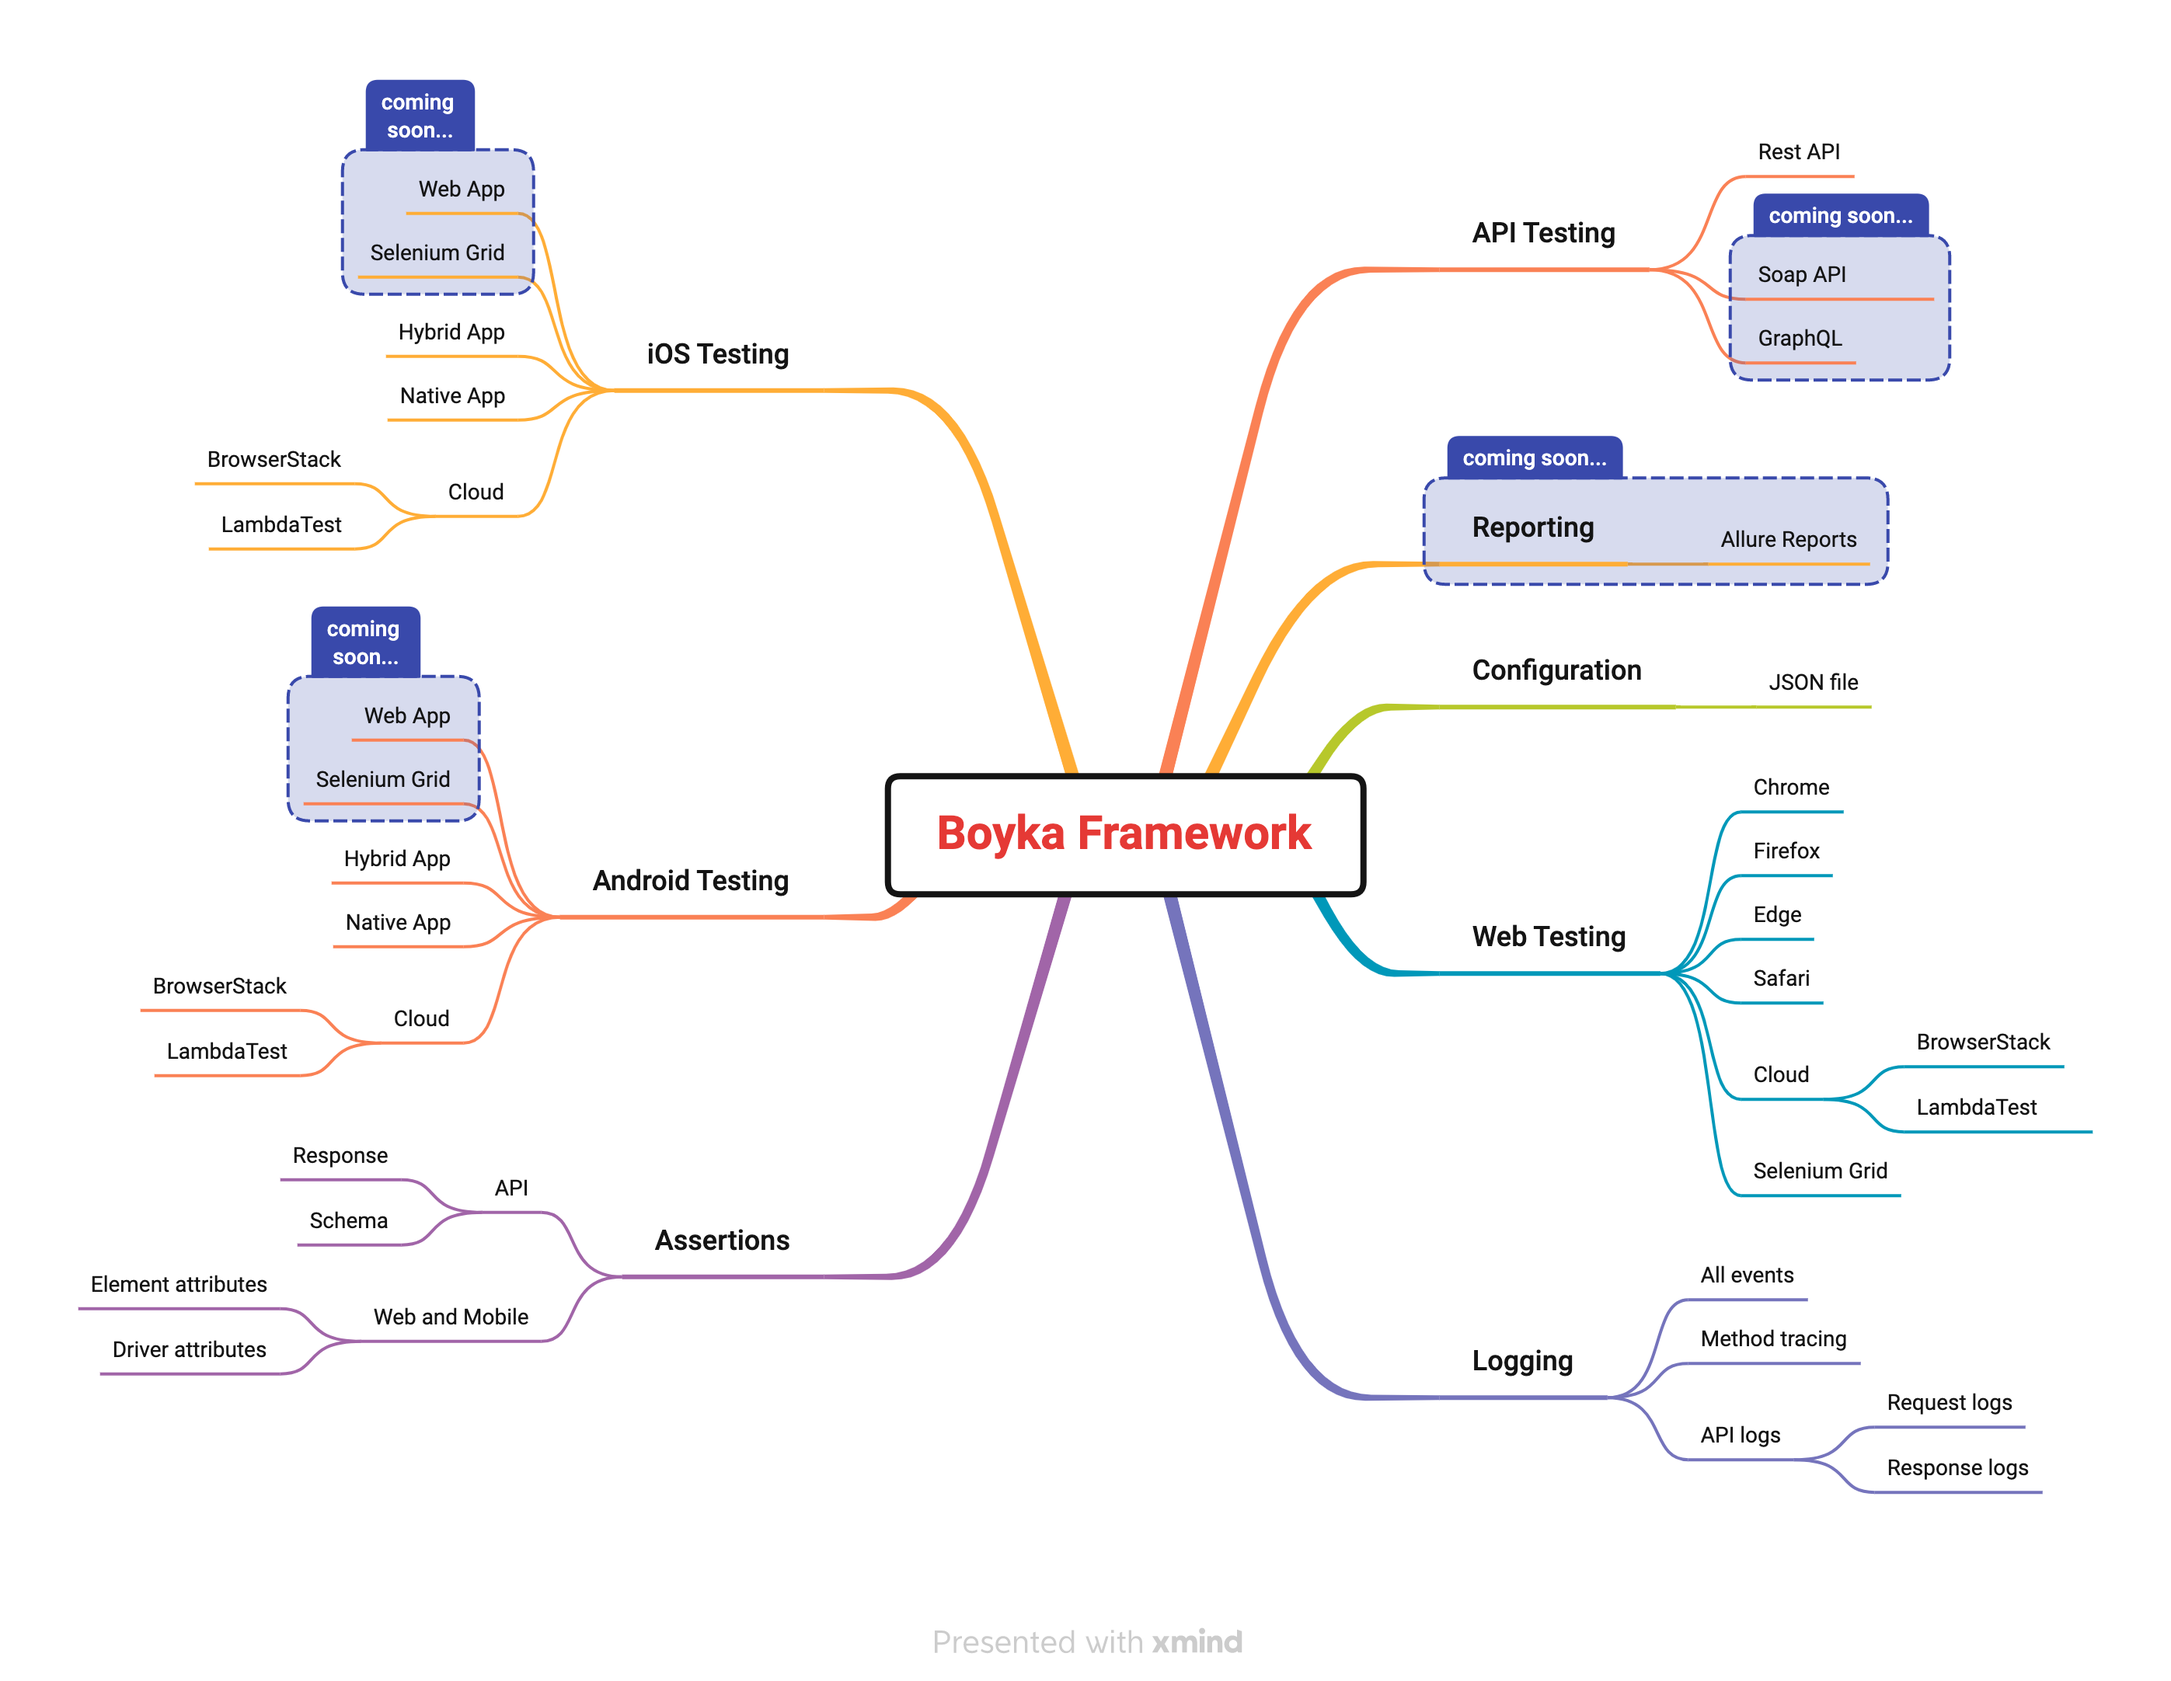
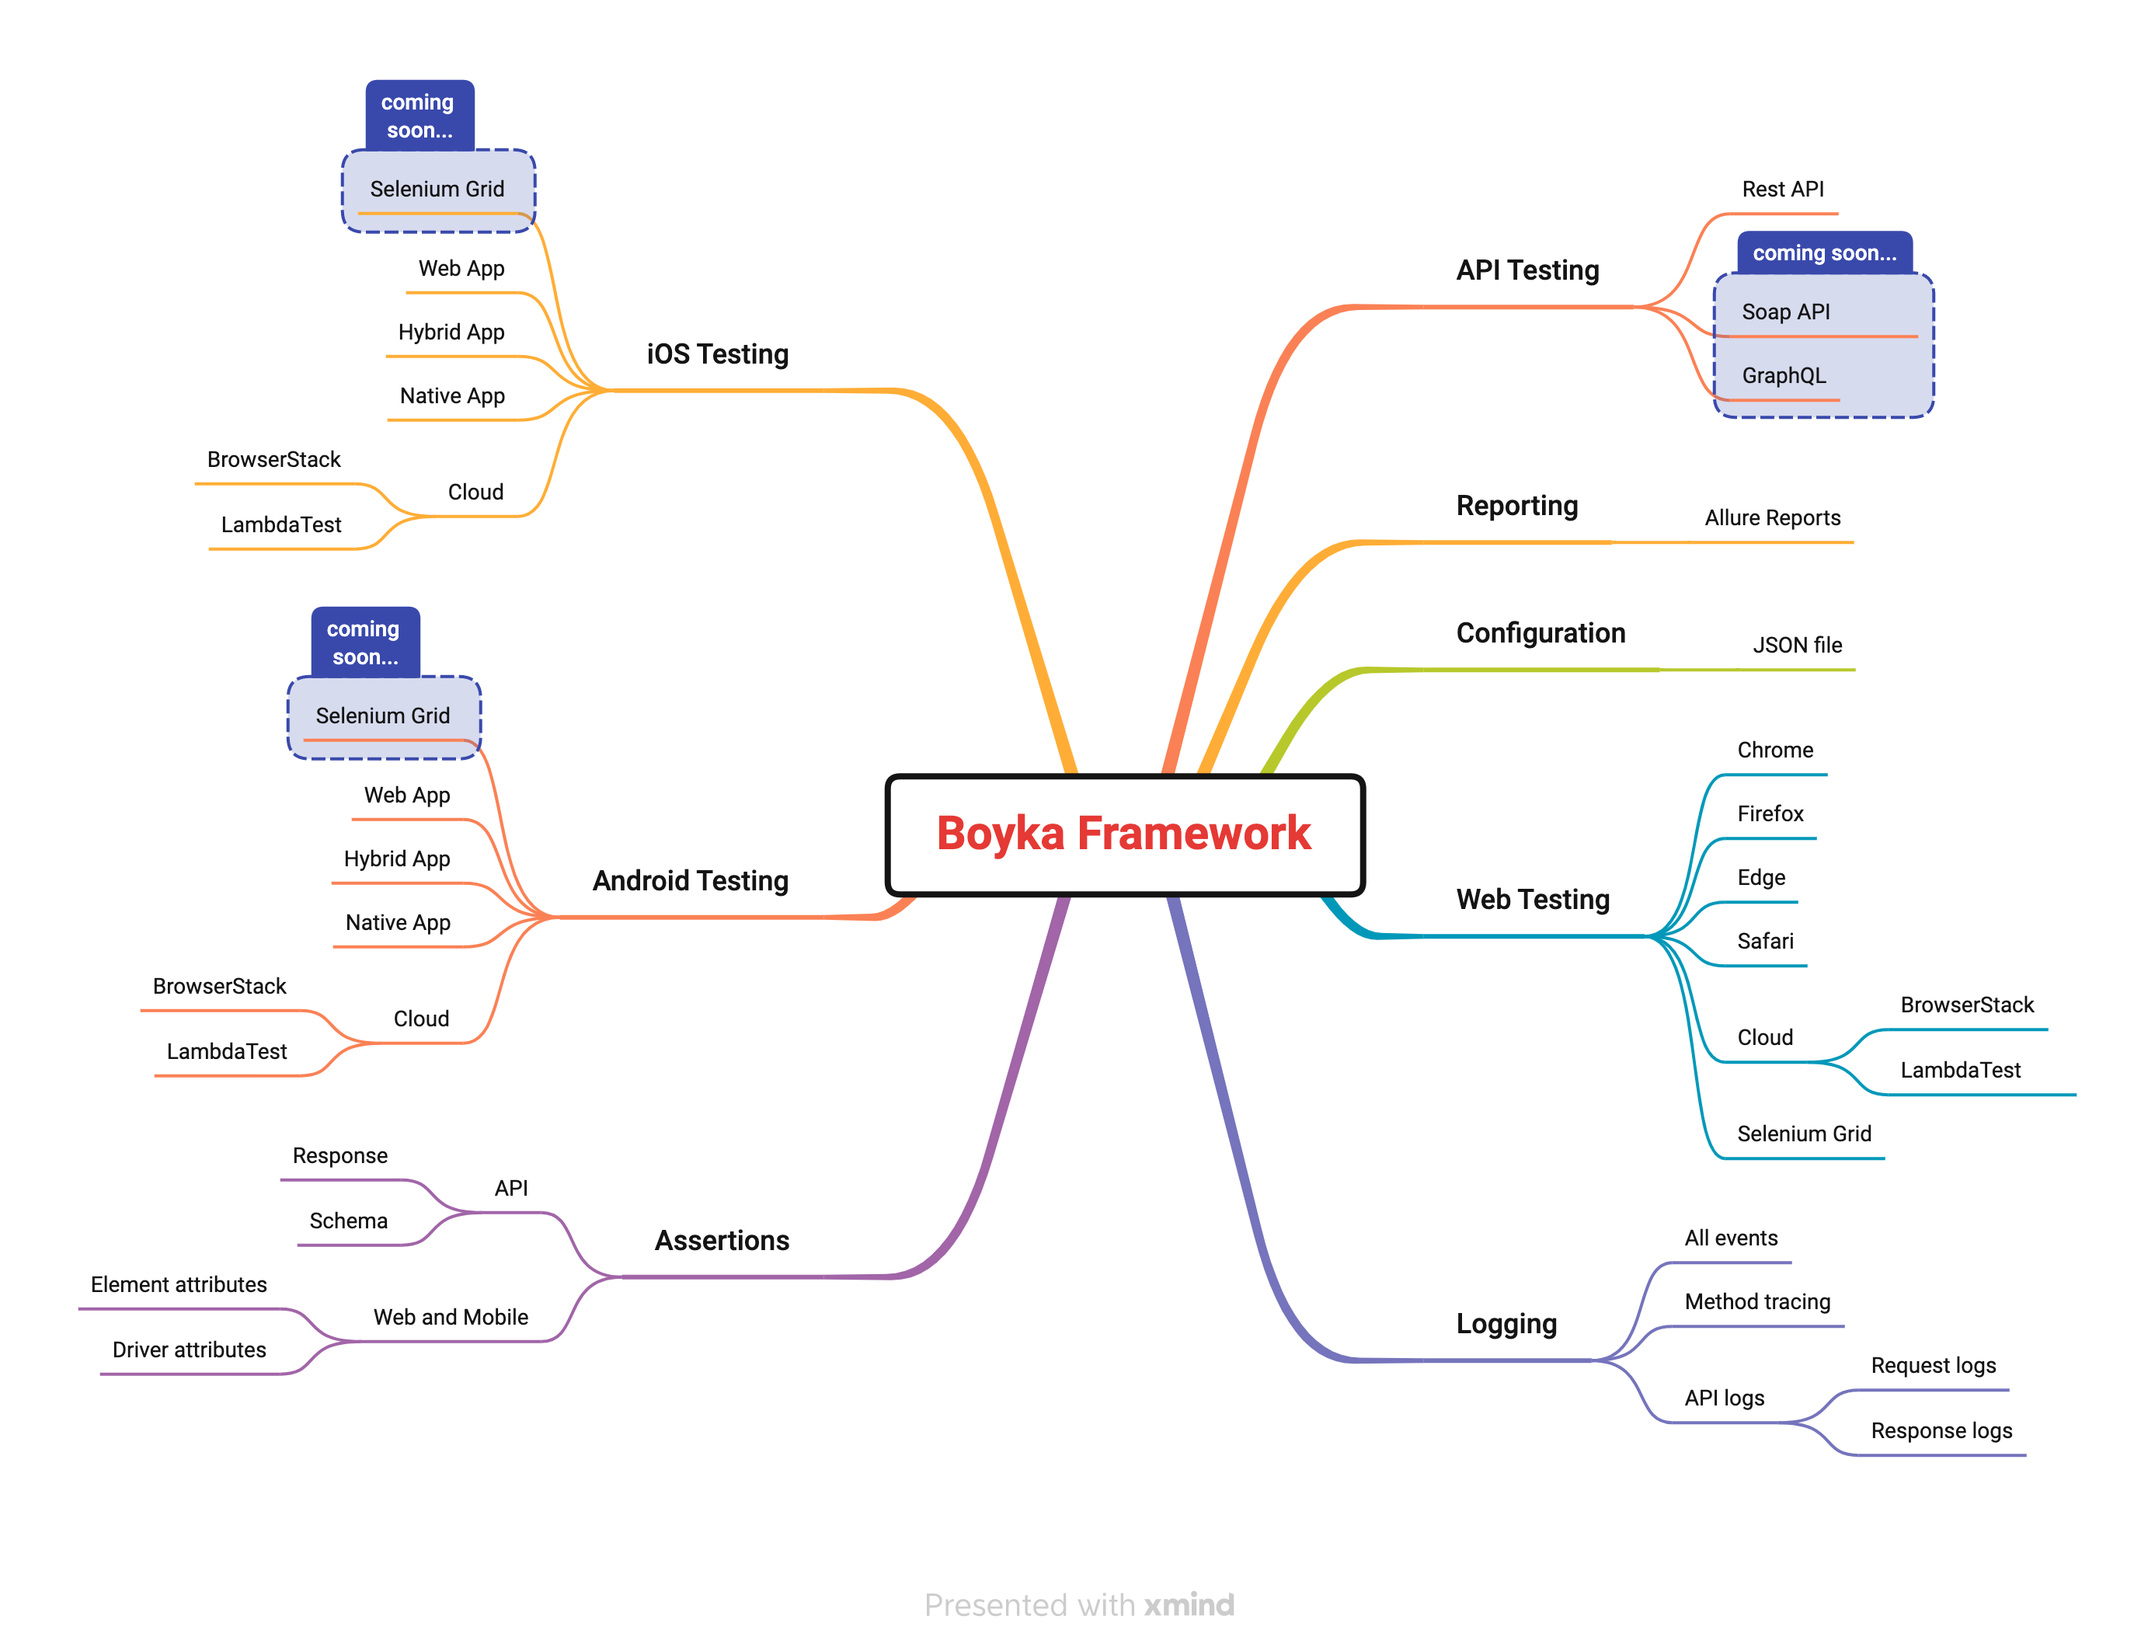
feat(java): :sparkles: adding web app support for mobile

diff --git a/core-java/src/main/java/com/github/wasiqb/boyka/manager/AndroidManager.java b/core-java/src/main/java/com/github/wasiqb/boyka/manager/AndroidManager.java
@@ -1,5 +1,7 @@
 package com.github.wasiqb.boyka.manager;
 
+import static com.github.wasiqb.boyka.actions.drivers.NavigateActions.navigate;
+import static com.github.wasiqb.boyka.enums.ApplicationType.WEB;
 import static com.github.wasiqb.boyka.enums.AutomationType.UI_AUTOMATOR;
 import static com.github.wasiqb.boyka.enums.DeviceType.CLOUD;
 import static com.github.wasiqb.boyka.enums.DeviceType.VIRTUAL;
@@ -8,6 +10,7 @@ import static com.github.wasiqb.boyka.manager.ParallelSession.setDriver;
 import static com.github.wasiqb.boyka.utils.Validator.setOptionIfPresent;
 import static io.appium.java_client.Setting.IGNORE_UNIMPORTANT_VIEWS;
 import static java.time.Duration.ofSeconds;
+import static org.apache.commons.lang3.StringUtils.isNotEmpty;
 
 import com.github.wasiqb.boyka.config.ui.mobile.MobileSetting;
 import com.github.wasiqb.boyka.config.ui.mobile.device.ApplicationSetting;
@@ -38,12 +41,24 @@ class AndroidManager implements IDriverManager {
         setupAndroidSettings ();
     }
 
+    private void navigateToBaseUrl () {
+        if (this.settings.getApplication ()
+            .getType () == WEB && isNotEmpty (this.settings.getBaseUrl ())) {
+            navigate ().to (this.settings.getBaseUrl ());
+        }
+    }
+
     private void setAndroidApplicationOptions (final UiAutomator2Options options,
         final ApplicationSetting application) {
-        setupApplicationOptions (application, options);
-        options.setAppWaitActivity (application.getWaitActivity ());
-        options.setAppWaitDuration (ofSeconds (application.getWaitTimeout ()));
-        options.setAndroidInstallTimeout (ofSeconds (application.getInstallTimeout ()));
+        if (application.getType () == WEB) {
+            options.withBrowserName (this.settings.getBrowser ()
+                .name ());
+        } else {
+            setupApplicationOptions (application, options);
+            options.setAppWaitActivity (application.getWaitActivity ());
+            options.setAppWaitDuration (ofSeconds (application.getWaitTimeout ()));
+            options.setAndroidInstallTimeout (ofSeconds (application.getInstallTimeout ()));
+        }
     }
 
     private void setAvdOptions (final UiAutomator2Options options, final DeviceType type,
@@ -95,5 +110,6 @@ class AndroidManager implements IDriverManager {
         }
         setDriver (new AndroidDriver (getSession ().getServiceManager ()
             .getServiceUrl (), options));
+        navigateToBaseUrl ();
     }
 }

diff --git a/core-java/src/main/java/com/github/wasiqb/boyka/actions/elements/ClickableActions.java b/core-java/src/main/java/com/github/wasiqb/boyka/actions/elements/ClickableActions.java
@@ -28,6 +28,7 @@ import static org.apache.logging.log4j.LogManager.getLogger;
 import com.github.wasiqb.boyka.actions.interfaces.elements.IClickableActions;
 import com.github.wasiqb.boyka.actions.interfaces.listeners.elements.IClickableActionsListener;
 import com.github.wasiqb.boyka.builders.Locator;
+import com.github.wasiqb.boyka.enums.ApplicationType;
 import org.apache.logging.log4j.Logger;
 import org.openqa.selenium.WebElement;
 import org.openqa.selenium.interactions.Actions;
@@ -64,7 +65,11 @@ public class ClickableActions extends FingersActions implements IClickableAction
         LOGGER.traceEntry ();
         LOGGER.info ("Clicking on element: {}", this.locator.getName ());
         ofNullable (this.listener).ifPresent (l -> l.onClick (this.locator));
-        if (getSession ().getPlatformType () == WEB) {
+        final var session = getSession ();
+        if (session.getPlatformType () == WEB || session.getMobileSetting ()
+            .getDevice ()
+            .getApplication ()
+            .getType () == ApplicationType.WEB) {
             scrollIntoView ();
             performElementAction (WebElement::click, this.locator);
         } else {

diff --git a/core-java/src/main/java/com/github/wasiqb/boyka/manager/IOSManager.java b/core-java/src/main/java/com/github/wasiqb/boyka/manager/IOSManager.java
@@ -16,6 +16,7 @@
 
 package com.github.wasiqb.boyka.manager;
 
+import static com.github.wasiqb.boyka.enums.ApplicationType.WEB;
 import static com.github.wasiqb.boyka.enums.DeviceType.CLOUD;
 import static com.github.wasiqb.boyka.enums.DeviceType.VIRTUAL;
 import static com.github.wasiqb.boyka.manager.ParallelSession.getSession;
@@ -58,8 +59,13 @@ class IOSManager implements IDriverManager {
     }
 
     private void setApplicationCapabilities (final XCUITestOptions options, final ApplicationSetting application) {
-        setupApplicationOptions (application, options);
-        options.setBundleId (application.getBundleId ());
+        if (application.getType () == WEB) {
+            options.withBrowserName (this.settings.getBrowser ()
+                .name ());
+        } else {
+            setupApplicationOptions (application, options);
+            options.setBundleId (application.getBundleId ());
+        }
     }
 
     private void setCommonCapabilities (final XCUITestOptions options) {

diff --git a/core-java/src/main/java/com/github/wasiqb/boyka/config/ui/mobile/device/DeviceSetting.java b/core-java/src/main/java/com/github/wasiqb/boyka/config/ui/mobile/device/DeviceSetting.java
@@ -21,6 +21,7 @@ import static com.github.wasiqb.boyka.enums.OS.ANDROID;
 
 import java.util.Map;
 
+import com.github.wasiqb.boyka.enums.Browser;
 import com.github.wasiqb.boyka.enums.DeviceType;
 import com.github.wasiqb.boyka.enums.OS;
 import lombok.Data;
@@ -34,6 +35,8 @@ import lombok.Data;
 @Data
 public class DeviceSetting {
     private ApplicationSetting   application;
+    private String               baseUrl;
+    private Browser              browser;
     private Map<String, Object>  capabilities;
     private int                  chromeDriverPort;
     private boolean              clearFiles             = true;

diff --git a/core-java/src/main/java/com/github/wasiqb/boyka/config/ui/web/WebSetting.java b/core-java/src/main/java/com/github/wasiqb/boyka/config/ui/web/WebSetting.java
@@ -38,7 +38,7 @@ import org.openqa.selenium.Dimension;
 @Data
 public class WebSetting {
     private String              baseUrl;
-    private Browser             browser    = Browser.CHROME;
+    private Browser             browser    = Browser.NONE;
     private List<String>        browserOptions;
     private Map<String, Object> capabilities;
     private Dimension           customSize = new Dimension (1920, 1080);

diff --git a/core-java/src/main/java/com/github/wasiqb/boyka/enums/ApplicationType.java b/core-java/src/main/java/com/github/wasiqb/boyka/enums/ApplicationType.java
@@ -24,11 +24,16 @@ package com.github.wasiqb.boyka.enums;
  */
 public enum ApplicationType {
     /**
+     * Hybrid app.
+     */
+    HYBRID,
+    /**
      * Native app.
      */
     NATIVE,
     /**
-     * Hybrid app.
+     * Web app.
      */
-    HYBRID
+    WEB
+
 }
